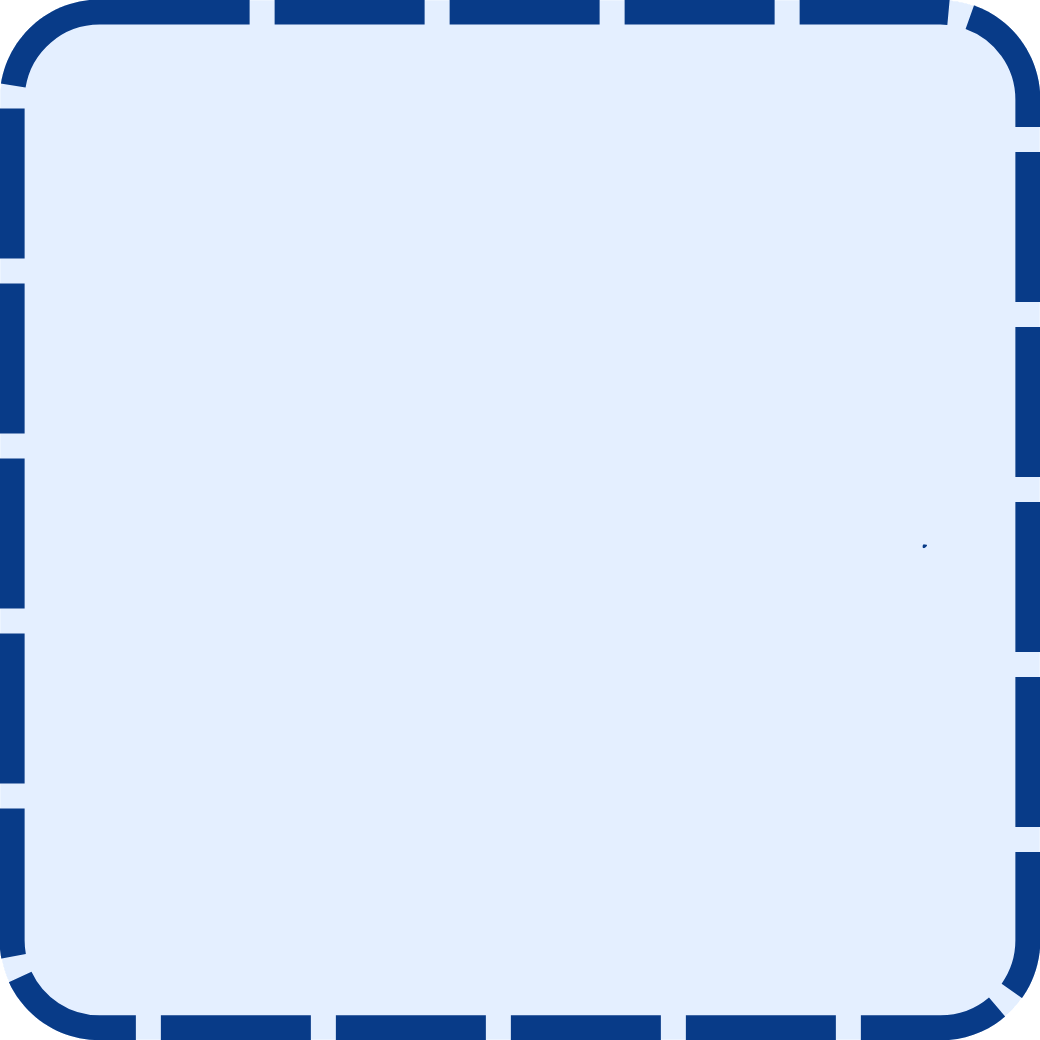
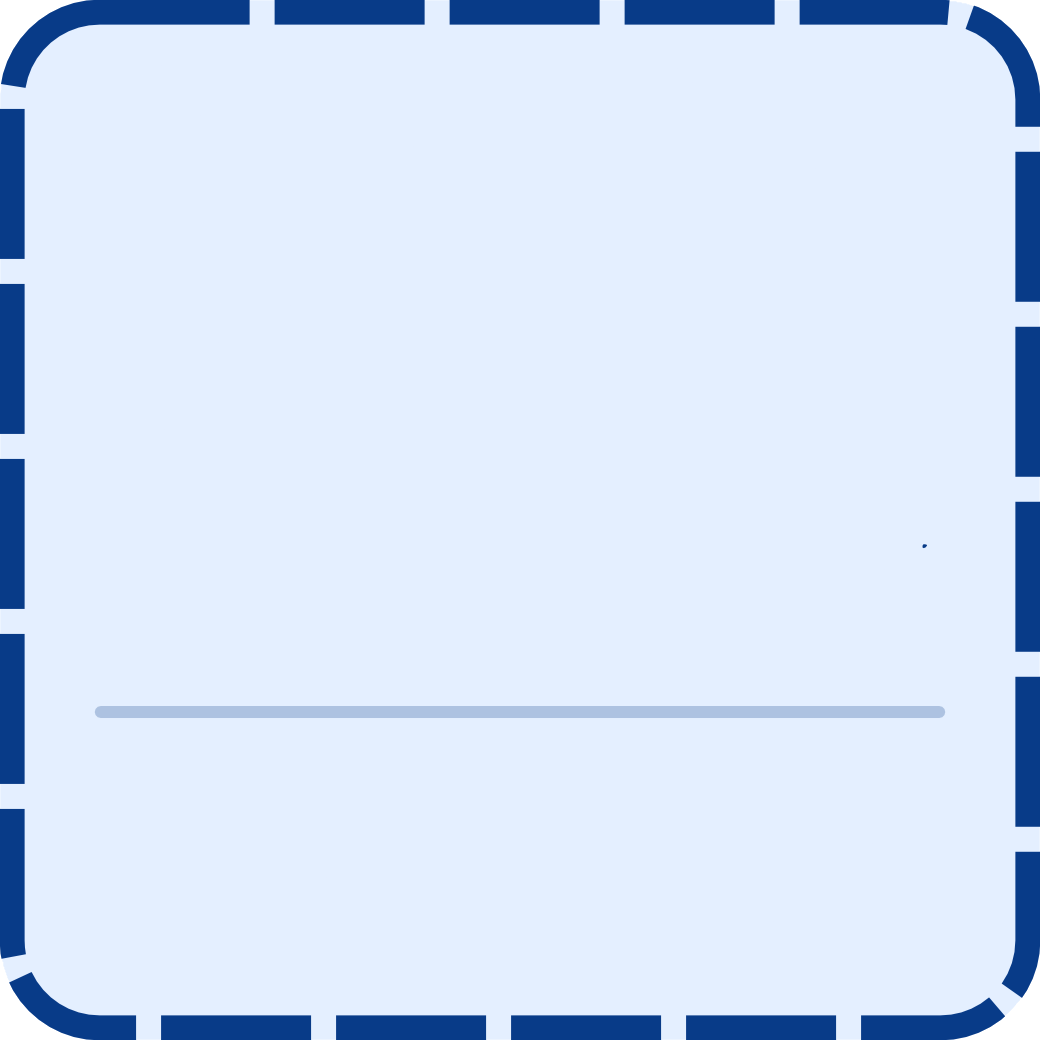
Add baseline in drawing interface

Changed region(s): [[0.0923, 0.6769, 0.9231, 0.7077]]

diff --git a/style.css b/style.css
@@ -172,7 +172,7 @@ body {
     font-family: "Gorditas";
     font-weight: normal;
     text-align: center;
-    color: #2a2a2a;
+    color: #1b1b1b;
     font-size: 5vh;
     margin: 2vh;
 }
@@ -180,7 +180,7 @@ body {
     font-family: "Gorditas";
     font-weight: bold;
     text-align: center;
-    color: #2a2a2a;
+    color: #1b1b1b;
     font-size: 10vh;
     margin: 2vh;
 }
@@ -273,6 +273,7 @@ body {
 }
 #canvasRow {
     display: flex;
+    position: relative;
     align-items: center;
     justify-content: center;
     gap: 0.06em;
@@ -377,4 +378,25 @@ body {
     position: relative;
     width: 100%;
     height: 100%;
+}
+#baseArrow {
+    position: absolute;
+    top: 66%;
+    transform: translateY(-34%);
+    width: 20%;
+    left: 80%;
+    z-index: 3;
+}
+#baseGuide {
+    position: absolute;
+    font-family: "Gorditas";
+    font-weight: normal;
+    text-align: center;
+    color: #1b1b1b;
+    font-size: 2vmax;
+    width: fit-content;
+    
+    top: 70%;
+    left: 85%;
+    z-index: 3;
 }

diff --git a/index.html b/index.html
@@ -70,6 +70,8 @@
                 <button id="next" type="button">
                     <img src="images/next.png" id="nextimg" draggable="false">
                 </button>
+                <img src="images/arrow.png" id="baseArrow">
+                <p id="baseGuide">Consider this as a baseline and draw here!</p>
             </div>
         </div>
     </div>

diff --git a/testvectors.html b/testvectors.html
@@ -4,7 +4,7 @@
     <meta name="viewport" content="width=device-width, initial-scale=1.0">
     <script src="vectors.js" defer></script>
 <body>
-<svg height="400" width="400">
+<svg height="30" width="30">
   <path
   id="svgpath"
   d="M0 0 L400 400"
